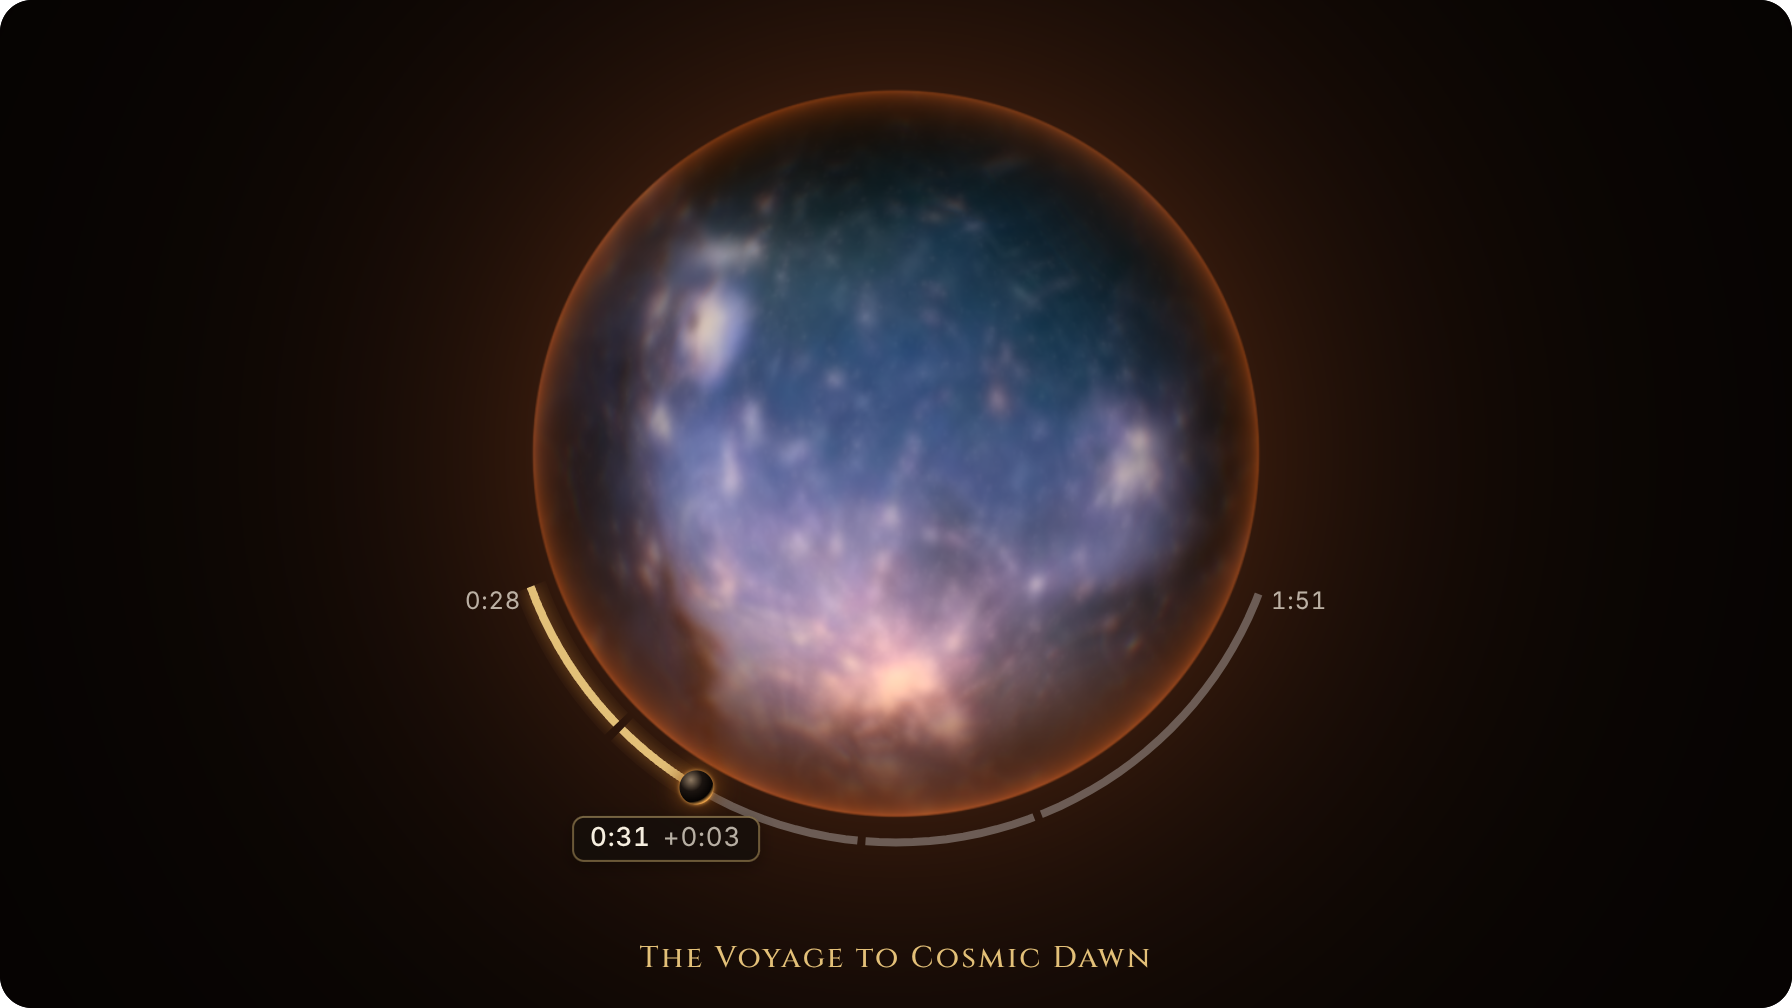
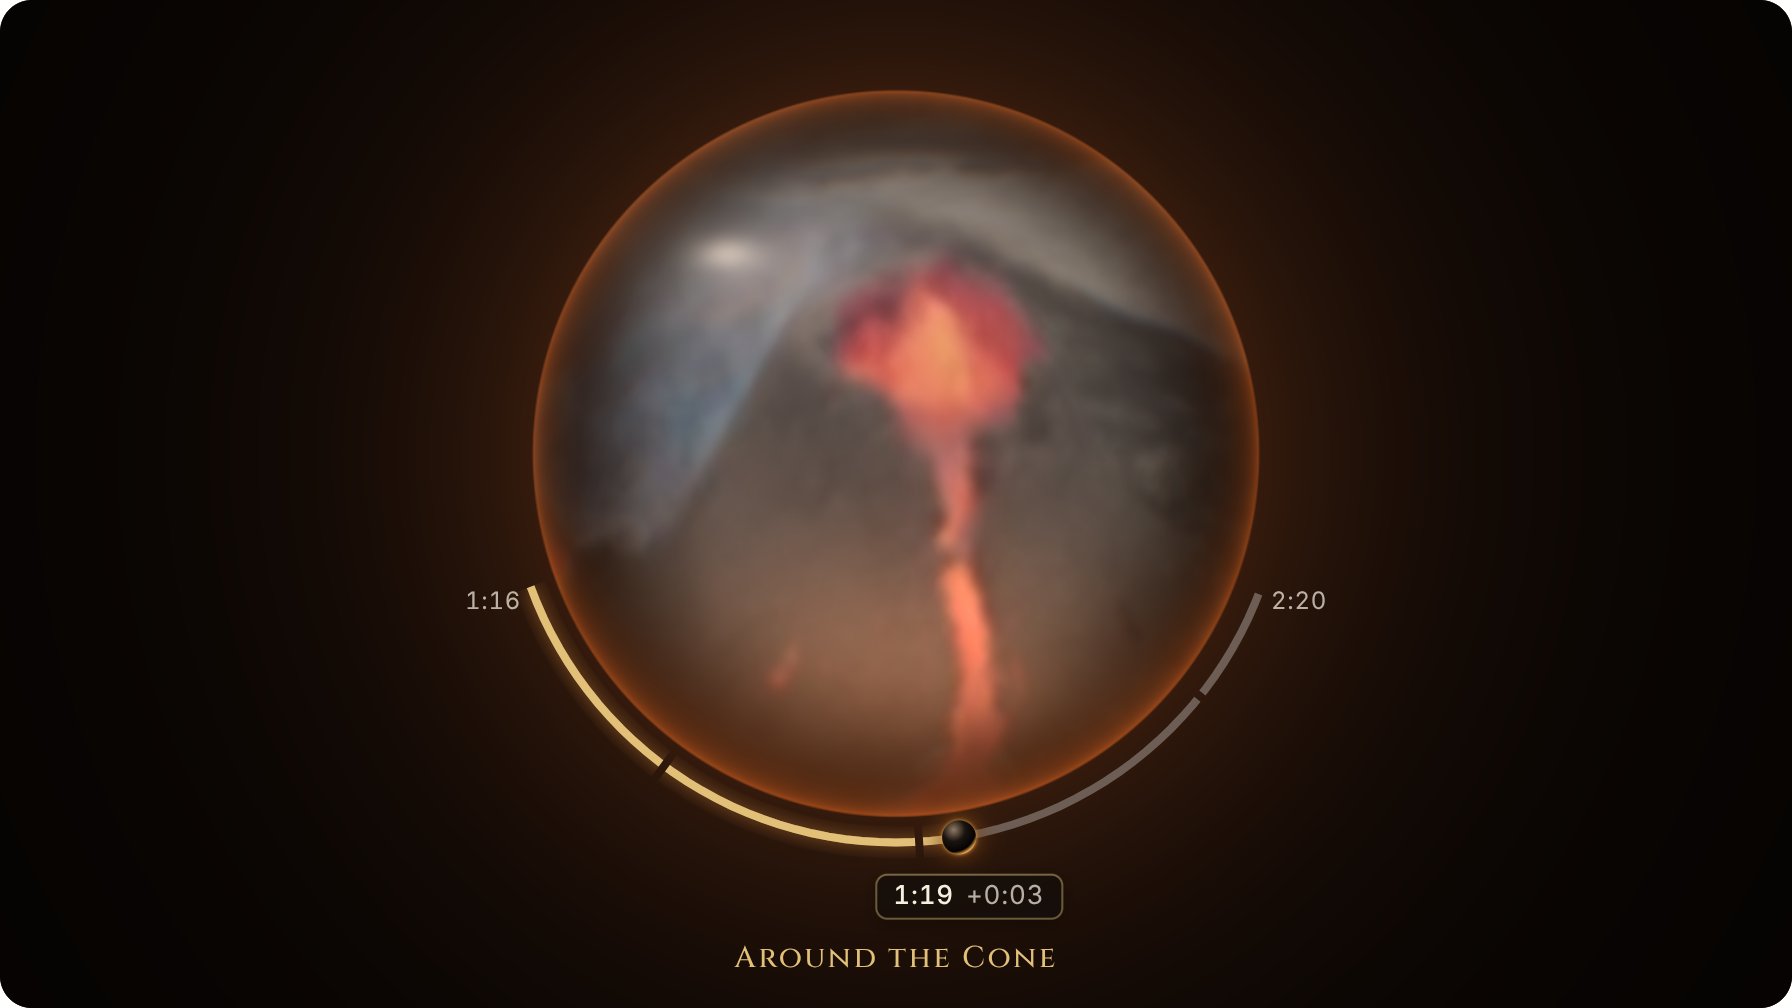
Demo film: the Fagradalsfjall eruption
The preview now plays the first 2:20 of "Eruption of Fagradalsfjall
volcano, 2021-03-24, 2" by Mladen Stojanovic (Wikimedia Commons, CC BY
3.0), hosted on Mux: one unbroken drone flight, with a storyboard frame
every 2.8 seconds. New chapters, poster moment, credits on the home page
and in the README, and retaken design screenshots.

Claude-Session: https://claude.ai/code/session_01Acshqutm5A7xrV4CatWeE1

Changed region(s): [[0.3125, 0.0923, 0.6875, 0.9841], [0.7188, 0.5843, 0.75, 0.6151], [0.25, 0.5843, 0.2812, 0.6151]]

diff --git a/apps/preview/src/frame/player.ts b/apps/preview/src/frame/player.ts
@@ -6,9 +6,12 @@ import skinTemplate from '@/video/skin.html?raw';
 // What the preview plays: a public Mux playback ID, the moment its poster shows (in seconds), and a chapters
 // track served from `apps/preview/public` (or null for none). To play something else, change these three.
 // The title in the player's corner is the one the asset has in Mux.
-const PLAYBACK_ID = '83EzHOvVzVN01AsrD01BCpiH02Pj3S8mfzBOu101w2nHC5s';
-const POSTER_TIME = 69;
-const CHAPTERS: string | null = './cosmic-dawn-chapters.vtt';
+//
+// The film is the first 2:20 of "Eruption of Fagradalsfjall volcano, 2021-03-24, 2" by Mladen Stojanovic, from
+// Wikimedia Commons under CC BY 3.0: one unbroken drone flight, which is what the stone shows off best.
+const PLAYBACK_ID = '1Xy015xxsJduTP5ZZQFTD7m00D5hLcwslpwppWEPIuYWs';
+const POSTER_TIME = 58;
+const CHAPTERS: string | null = './fagradalsfjall-chapters.vtt';
 
 const SRC = `https://stream.mux.com/${PLAYBACK_ID}.m3u8`;
 const POSTER = `https://image.mux.com/${PLAYBACK_ID}/thumbnail.webp?time=${POSTER_TIME}`;

diff --git a/apps/preview/index.html b/apps/preview/index.html
@@ -75,8 +75,12 @@
           <a href="https://contra.com/community/topic/videojsskinschallenge/guidelines">Video.js Skins Design Challenge</a>.
         </p>
         <p>
-          <a href="https://github.com/abuzreq/scry-videojs-reskin">Source on GitHub</a>, Apache 2.0. Film: NASA’s
-          <cite>Cosmic Dawn</cite> trailer, streamed by Mux.
+          <a href="https://github.com/abuzreq/scry-videojs-reskin">Source on GitHub</a>, Apache 2.0. Film:
+          <a href="https://commons.wikimedia.org/wiki/File:Eruption_of_Fagradalsfjall_volcano,_2021-03-24,_2.webm"
+            ><cite>Eruption of Fagradalsfjall volcano</cite></a
+          >
+          by Mladen Stojanovic, <a href="https://creativecommons.org/licenses/by/3.0/">CC BY 3.0</a>, shortened and
+          streamed by Mux.
         </p>
       </footer>
     </main>

diff --git a/README.md b/README.md
@@ -164,8 +164,11 @@ version it was made with.
 ## Credits
 
 - Design and code: [Ahmed Abuzuraiq](https://abuzreq.com/).
-- Built on [Video.js v10](https://videojs.org). The demo video is NASA's *Cosmic Dawn* trailer, streamed by
-  [Mux](https://www.mux.com).
+- Built on [Video.js v10](https://videojs.org).
+- The demo film is the first 2:20 of
+  [*Eruption of Fagradalsfjall volcano, 2021-03-24, 2*](https://commons.wikimedia.org/wiki/File:Eruption_of_Fagradalsfjall_volcano,_2021-03-24,_2.webm)
+  by Mladen Stojanovic, used under [CC BY 3.0](https://creativecommons.org/licenses/by/3.0/) and shortened. It is
+  hosted on [Mux](https://www.mux.com), playback ID `1Xy015xxsJduTP5ZZQFTD7m00D5hLcwslpwppWEPIuYWs`.
 - The display typeface is [Cinzel](https://github.com/NDISCOVER/Cinzel) by Natanael Gama, bundled in
   `src/video/fonts/` under the SIL Open Font License 1.1 (`src/video/fonts/OFL.txt`).
 - Everything else in the skin, including the icons, is original work.

diff --git a/design/submission.md b/design/submission.md
@@ -35,3 +35,6 @@ nothing wraps.
 
 - Source: https://github.com/abuzreq/scry-videojs-reskin
 - Author: https://abuzreq.com/
+- Mux playback ID of the demo film: `1Xy015xxsJduTP5ZZQFTD7m00D5hLcwslpwppWEPIuYWs`
+- Film credit: *Eruption of Fagradalsfjall volcano, 2021-03-24, 2* by Mladen Stojanovic, CC BY 3.0, from
+  Wikimedia Commons; the first 2:20, shortened.
